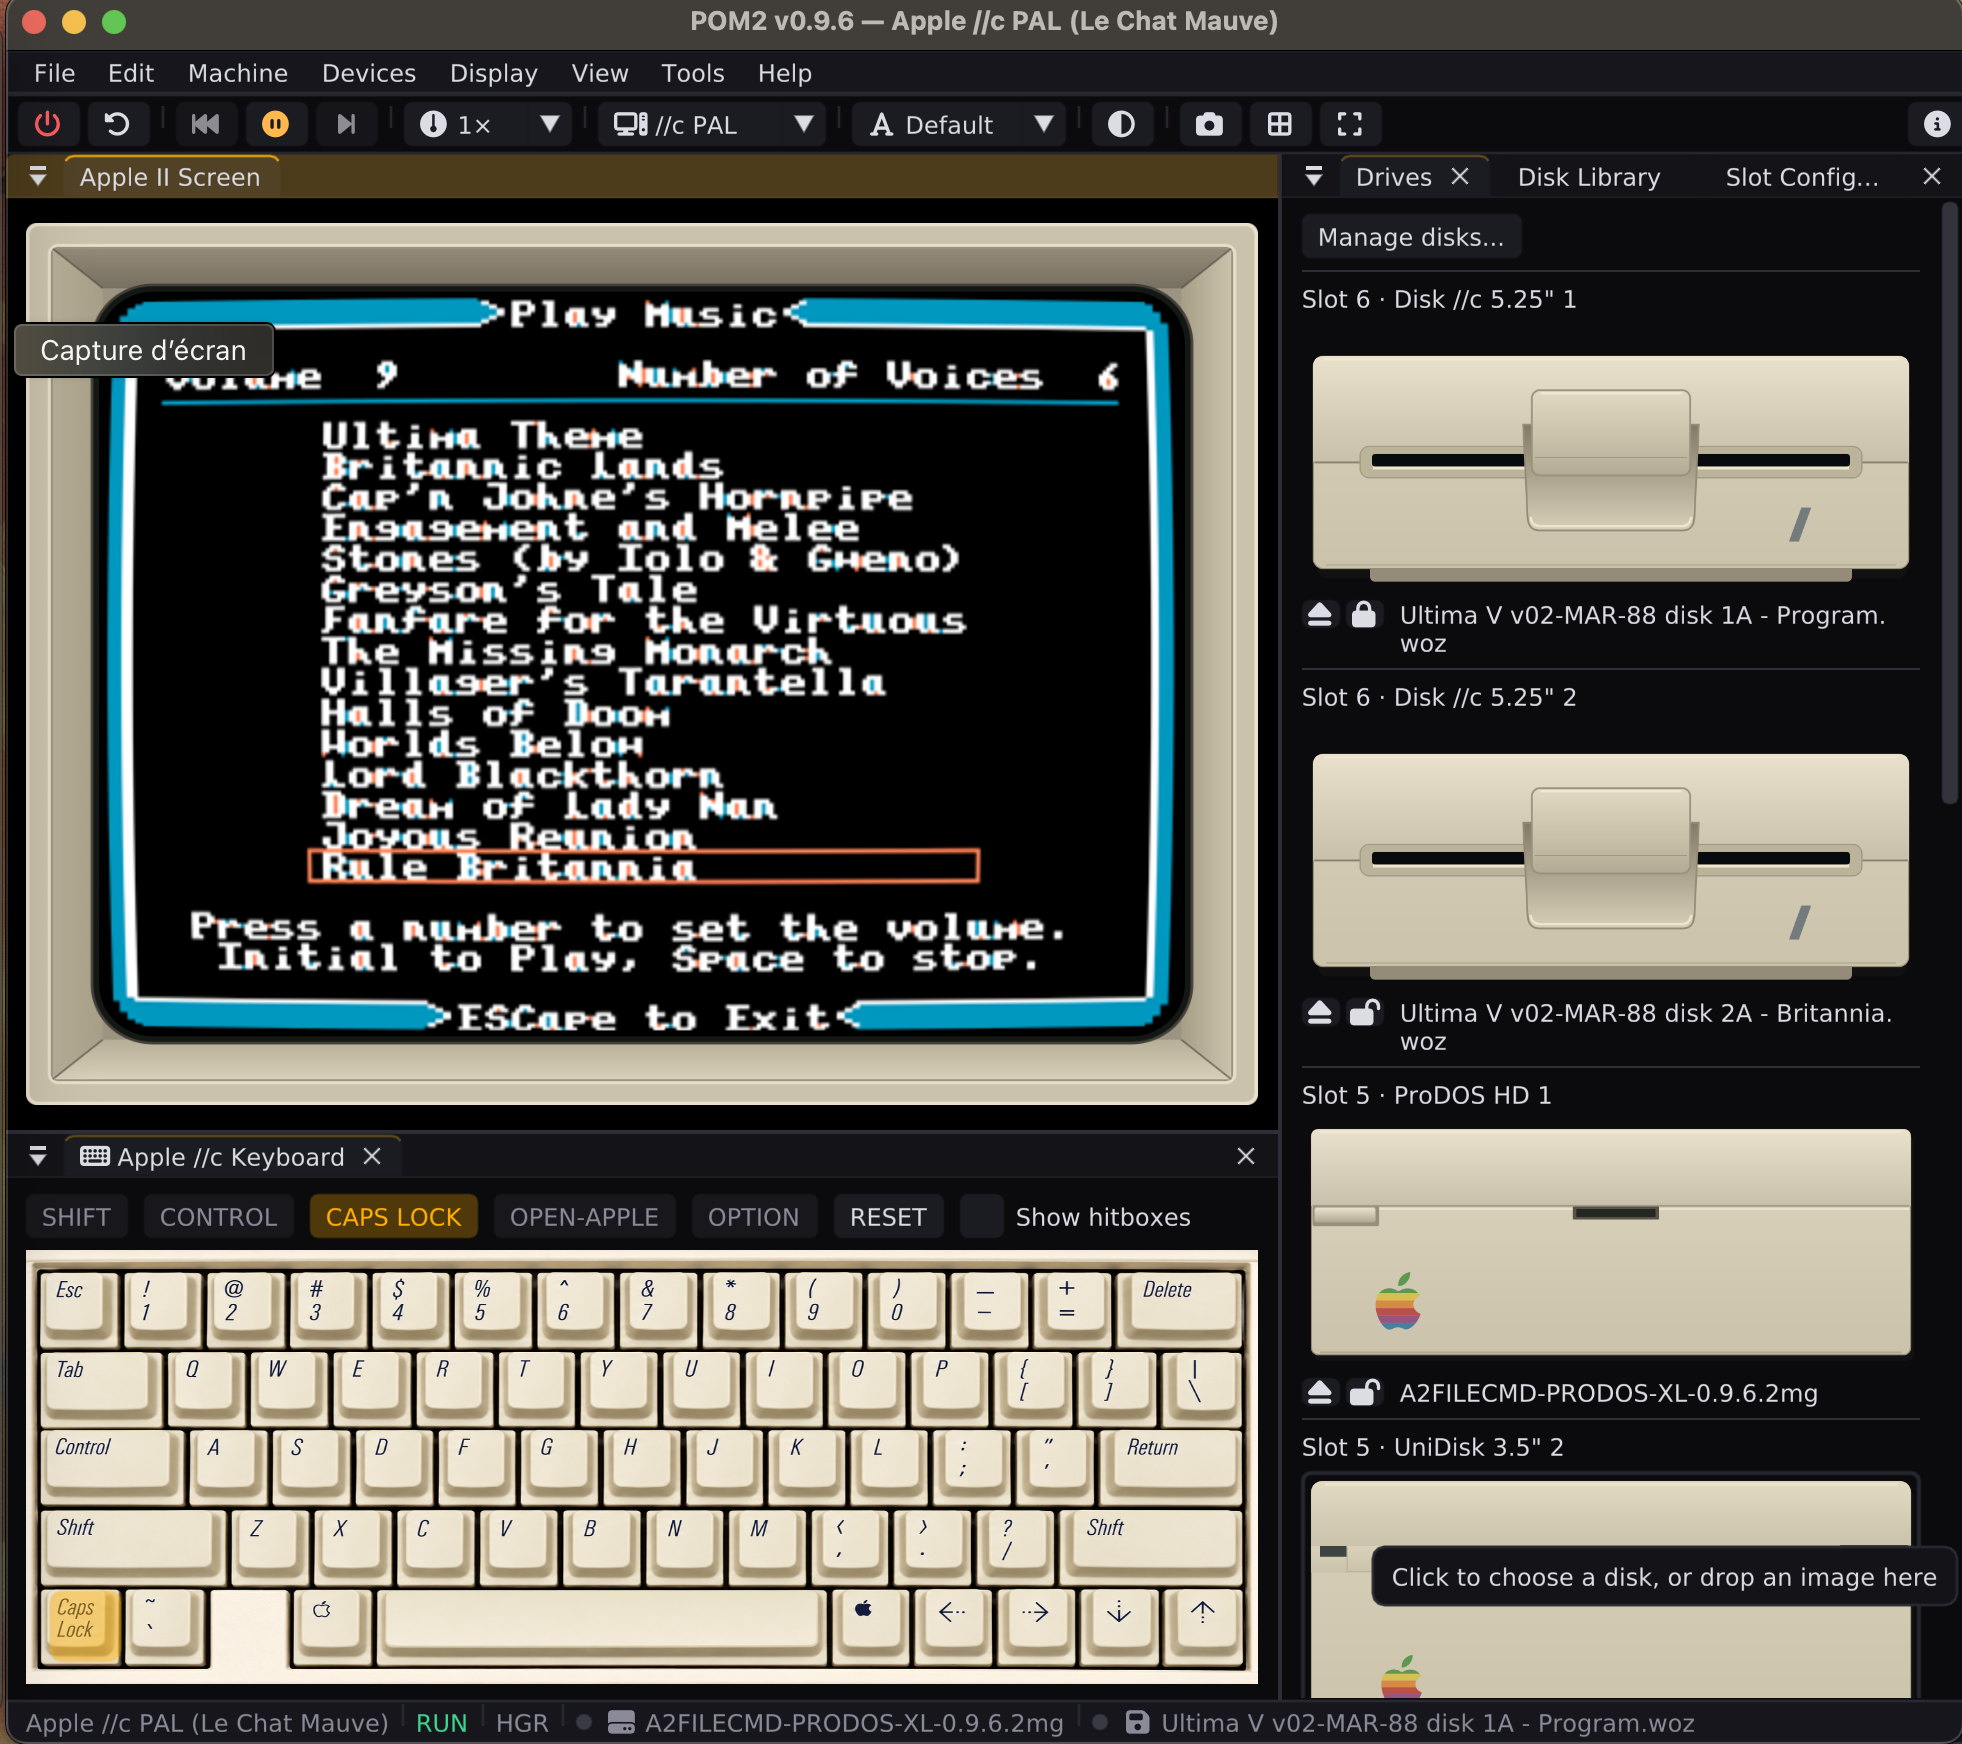
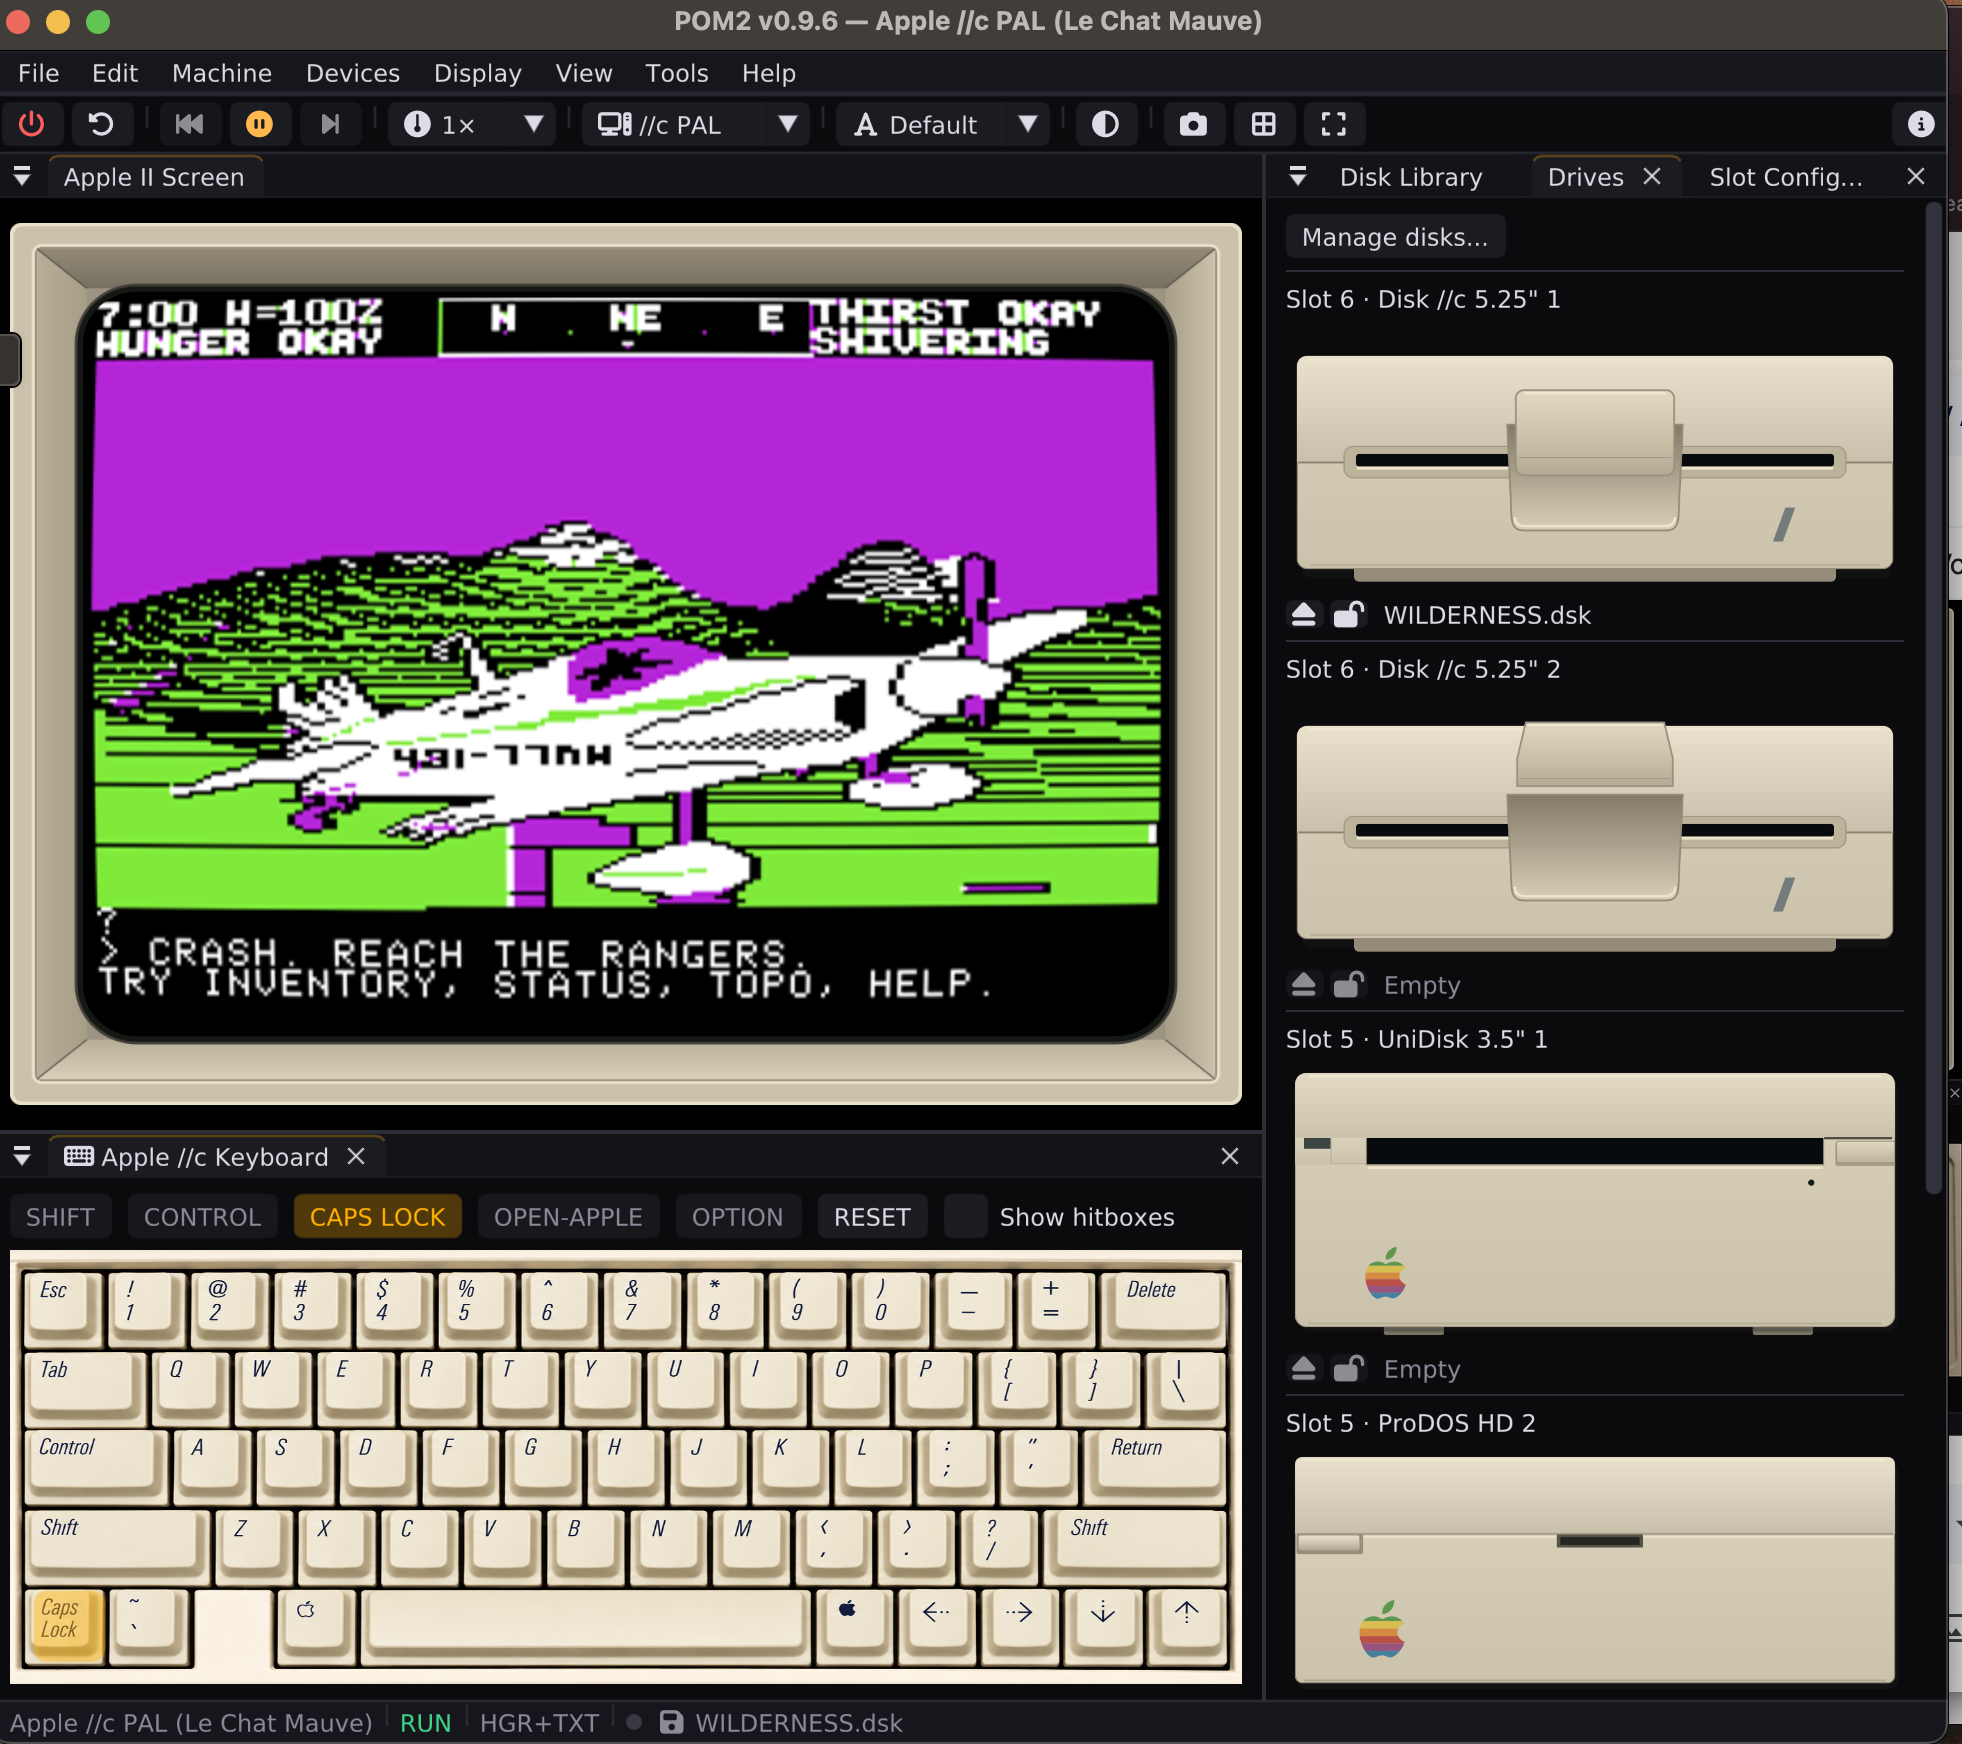
Refresh the default desktop screenshot (Wilderness on //c PAL)

diff --git a/README.md b/README.md
@@ -92,7 +92,7 @@ Disk images can be `.dsk`, `.do`, `.d13`, `.po`, `.nib`, `.woz`, `.2mg` or
 `.hdv`. A game written for a particular Apple II still needs that machine:
 changing profiles performs a cold reset.
 
-![Default desktop: Ultima V on Apple //c PAL, Monitor II frame, machine keyboard and right-column drive tabs](pic/POM2-default-desktop.png)
+![Default desktop: Wilderness on Apple //c PAL, Monitor II frame, machine keyboard and right-column drive tabs](pic/POM2-default-desktop.png)
 
 The default desktop places the **Apple II Screen** with its Monitor II frame
 above the **Apple Keyboard** on the left. The right column groups **Drives**
